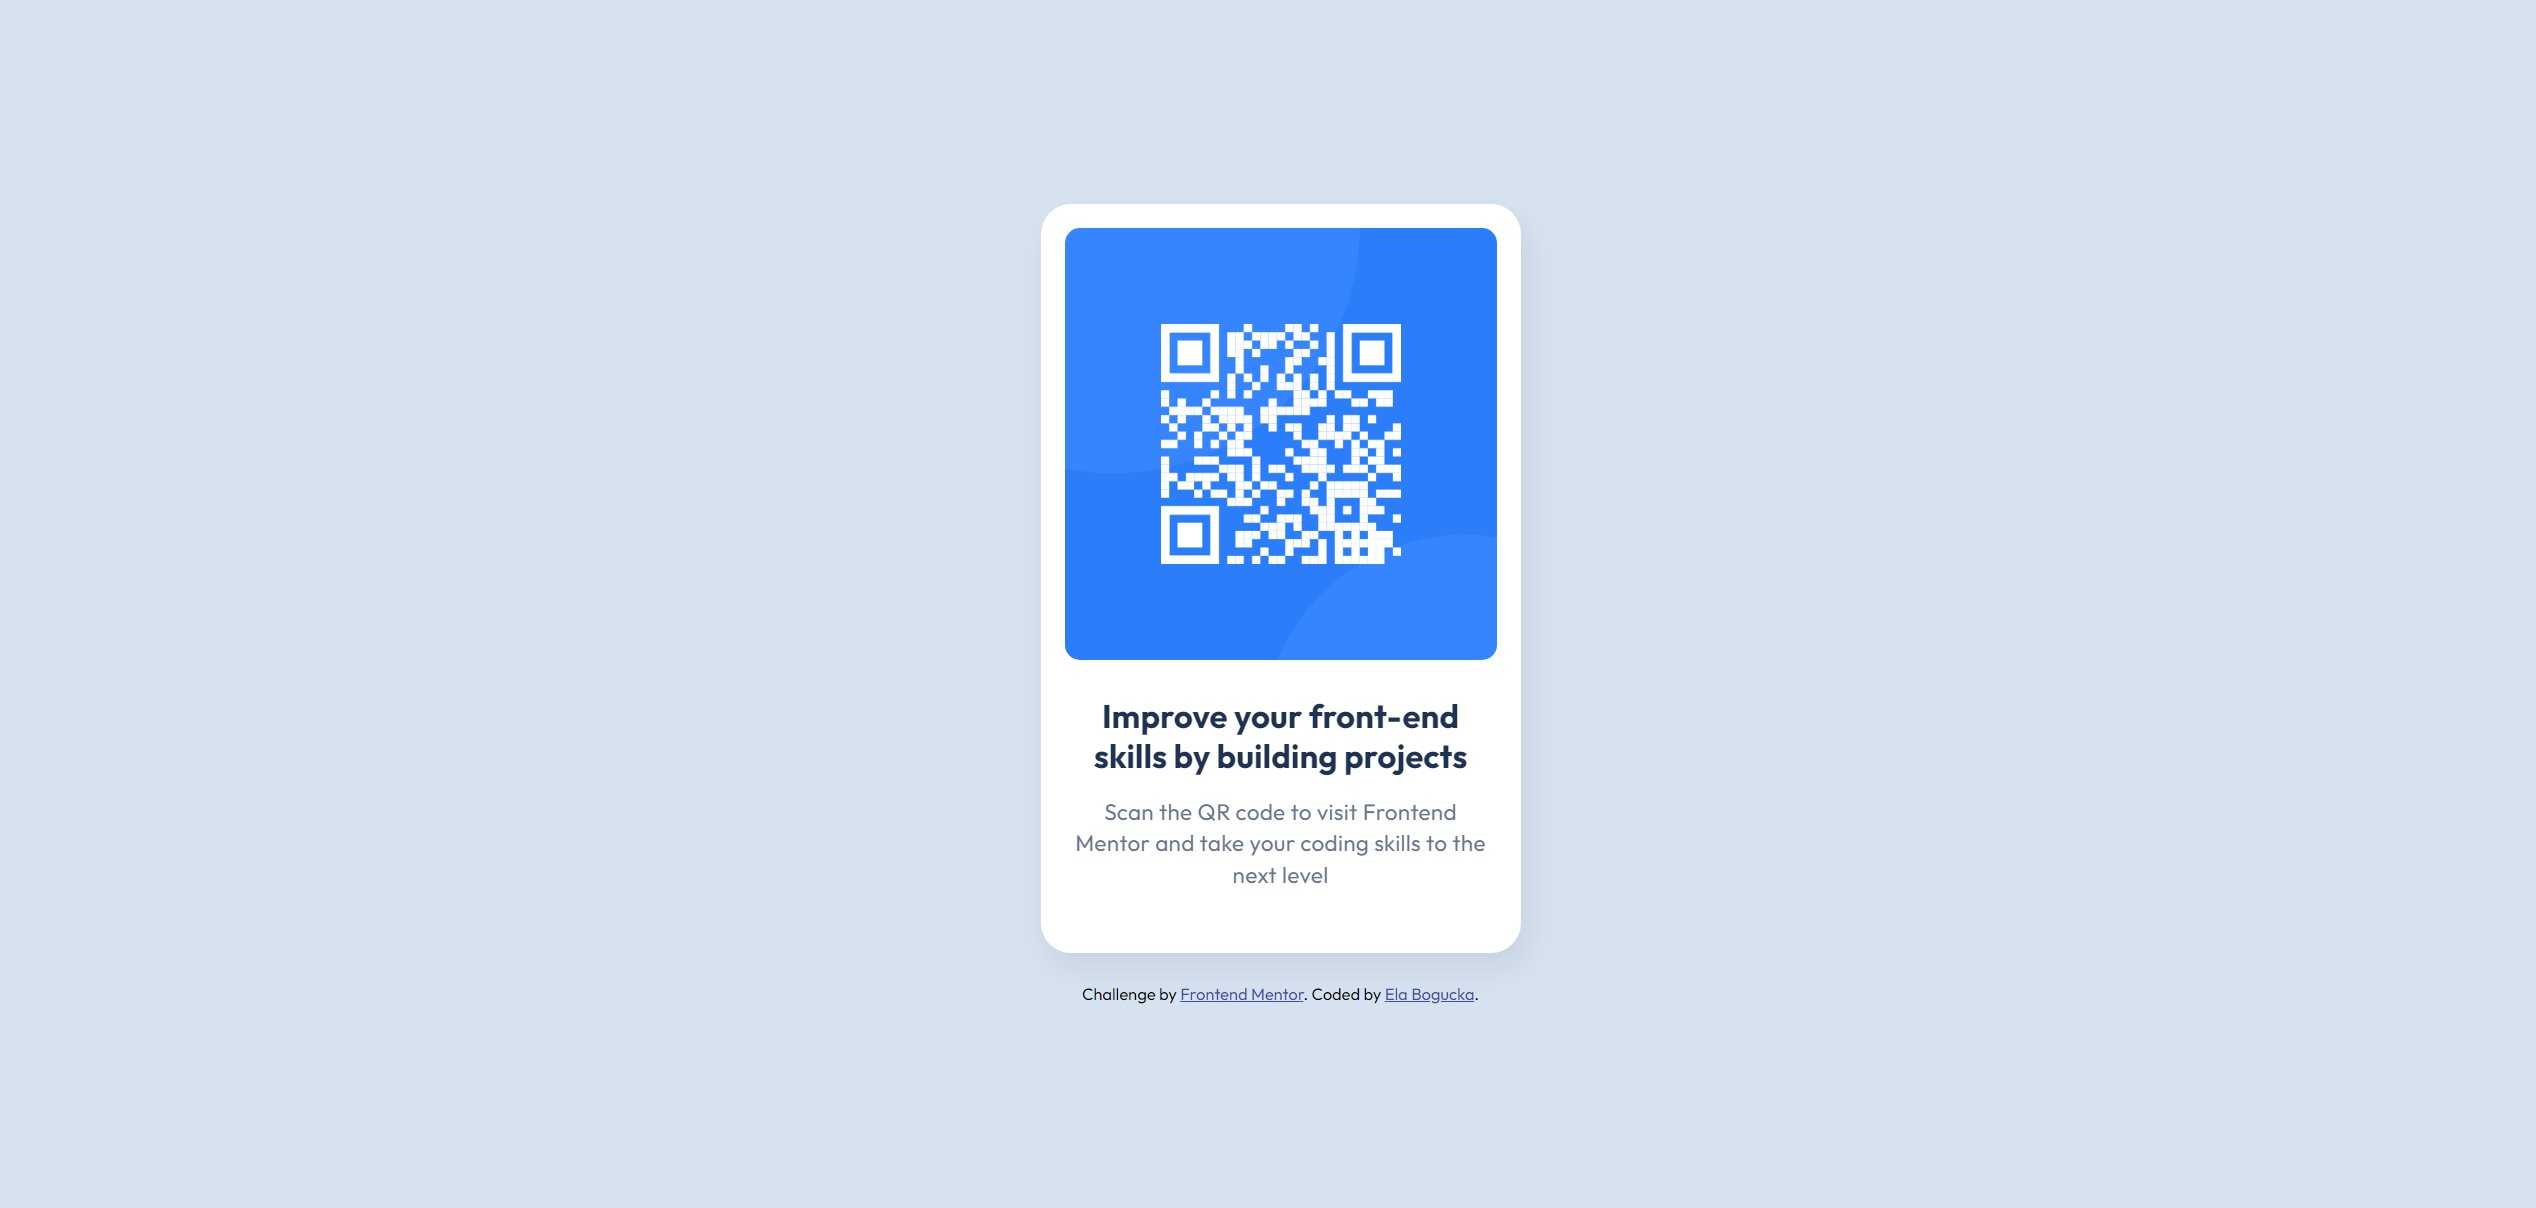
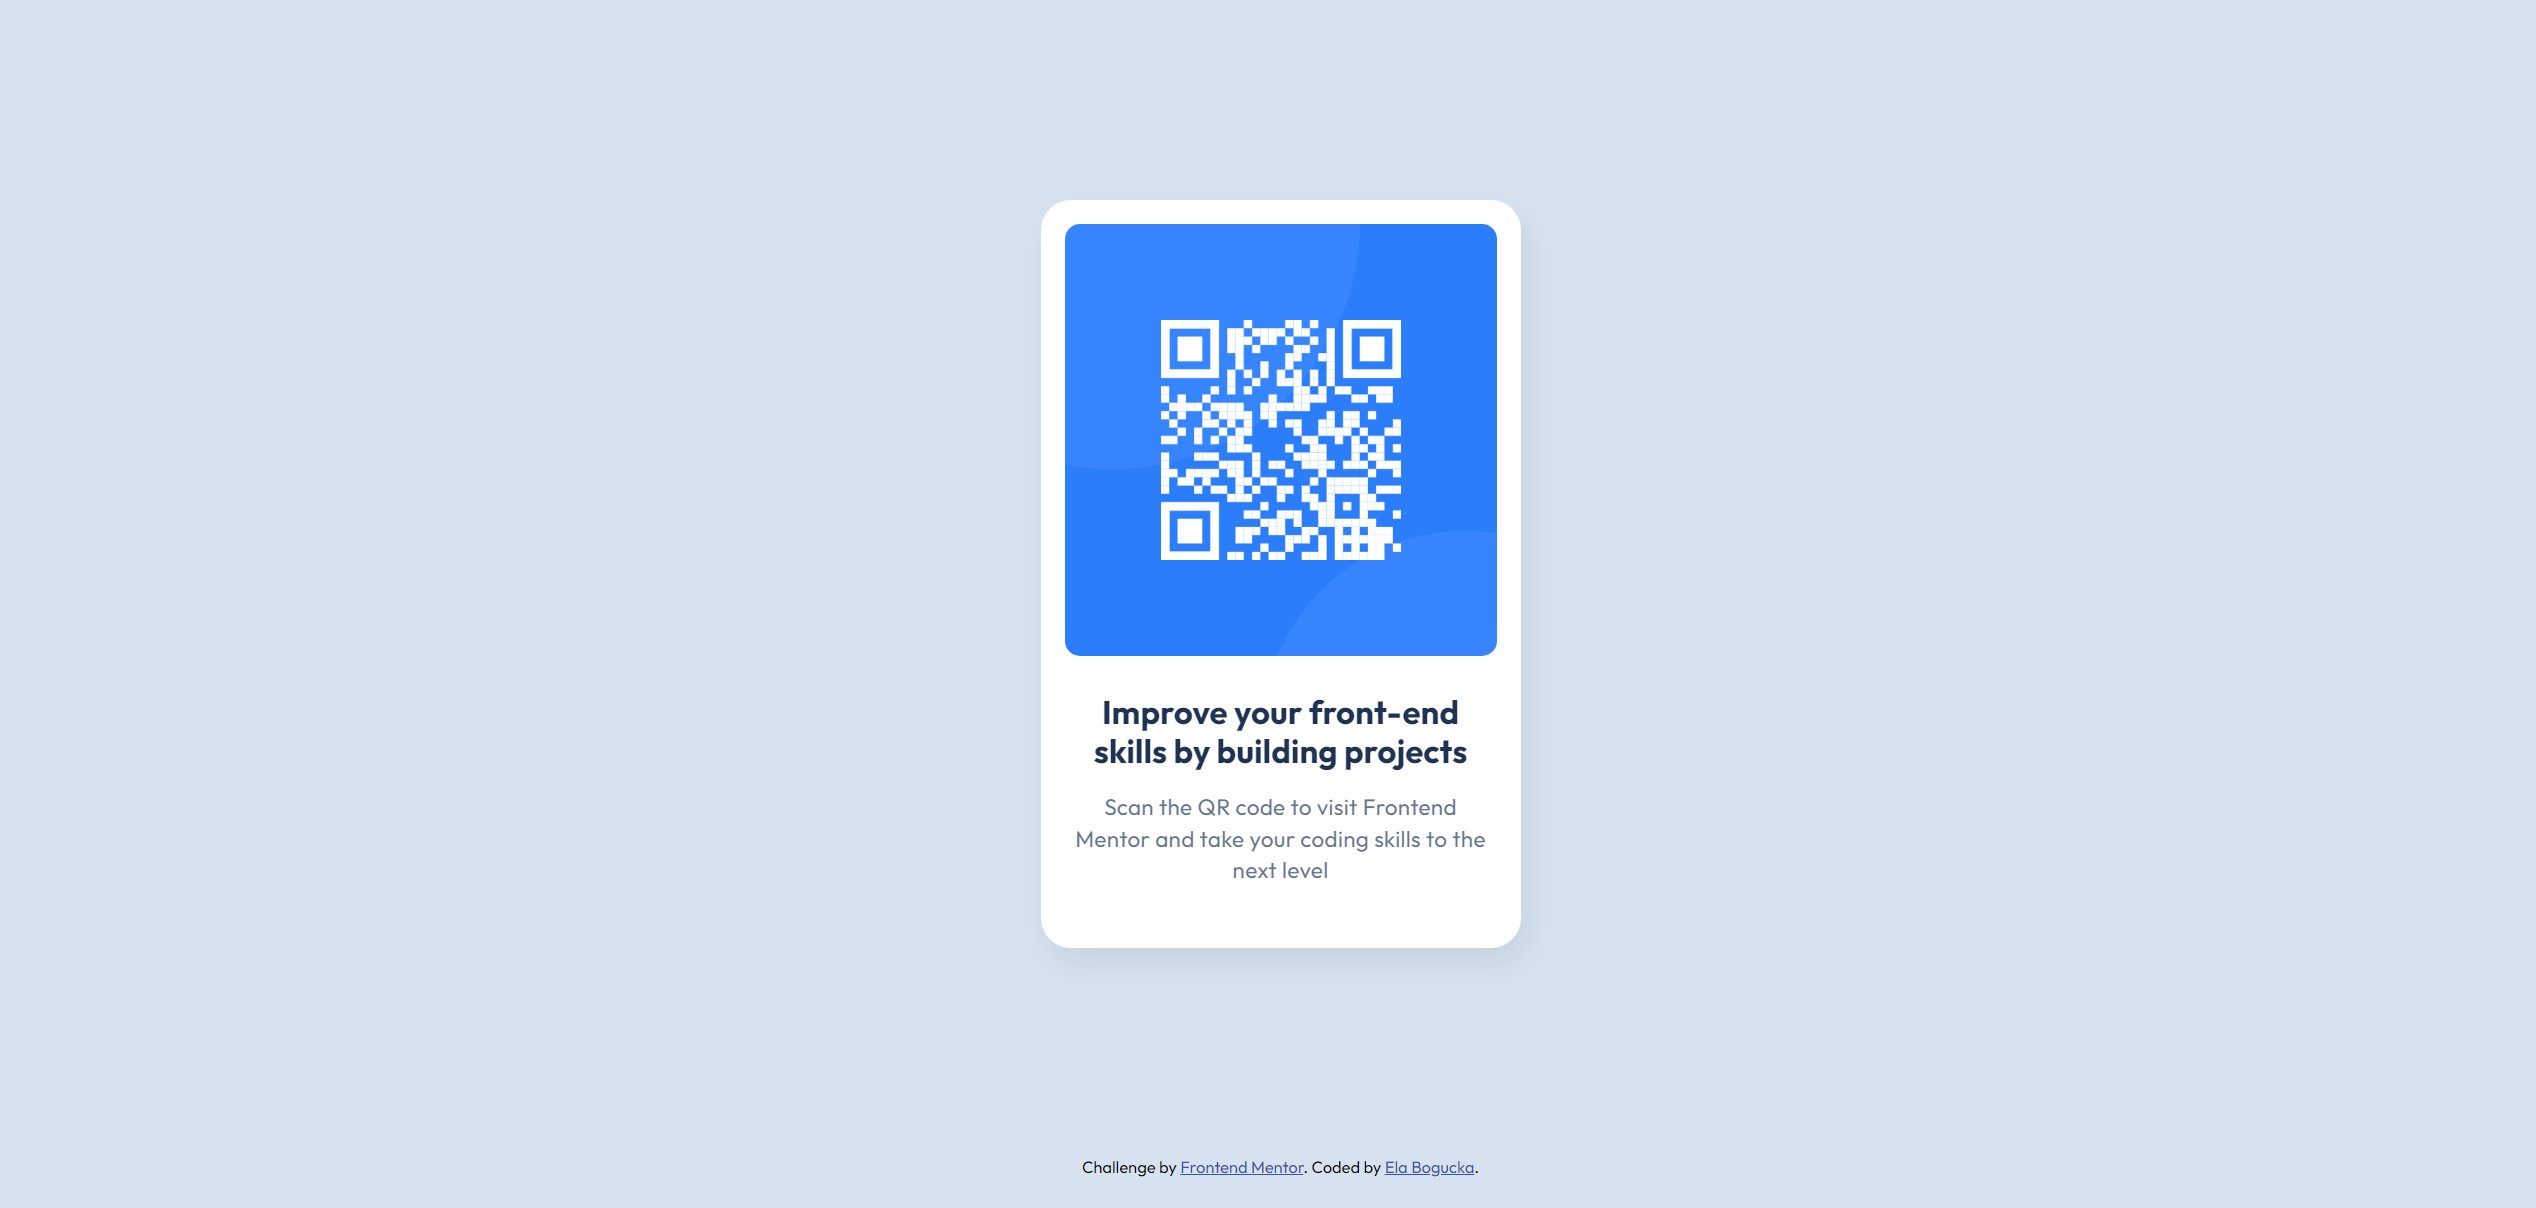
Fix footer's position

diff --git a/style.css b/style.css
@@ -3,6 +3,7 @@
     --slate300: hsl(212, 45%, 89%);
     --slate500: hsl(216, 15%, 48%);
     --slate900: hsl(218, 44%, 22%);
+    --attribution-color: hsl(228, 45%, 44%);
 }
 
 * {
@@ -12,12 +13,18 @@
 body {
     display: flex;
     flex-direction: column;
-    justify-content: center;
     align-items: center;
     min-height: 100vh;
     background-color: var(--slate300);
     font-family: 'Outfit', sans-serif;
     font-size: 15px;
+}
+
+main {
+    flex: 1;
+    display: flex;
+    justify-content: center;
+    align-items: center;
 }
 
 .container {
@@ -57,11 +64,12 @@ p {
 }
 
 .attribution {
-    margin-top: 20px;
     font-size: 11px;
-    text-align: center;
+    height: 2.5rem;
+    margin-top: auto;
+    align-content: center;
 }
 
 .attribution a {
-    color: hsl(228, 45%, 44%);
+    color: var(--attribution-color);
 }

diff --git a/README.md b/README.md
@@ -29,5 +29,5 @@ This is a solution to the [QR code component challenge on Frontend Mentor](https
 
 ## Author
 
-- Website - [StronaFirmy.pl](https://stronafirmy.pl)
+- GitHub - [@ebogucka](https://github.com/ebogucka)
 - Frontend Mentor - [@ebogucka](https://www.frontendmentor.io/profile/ebogucka)
